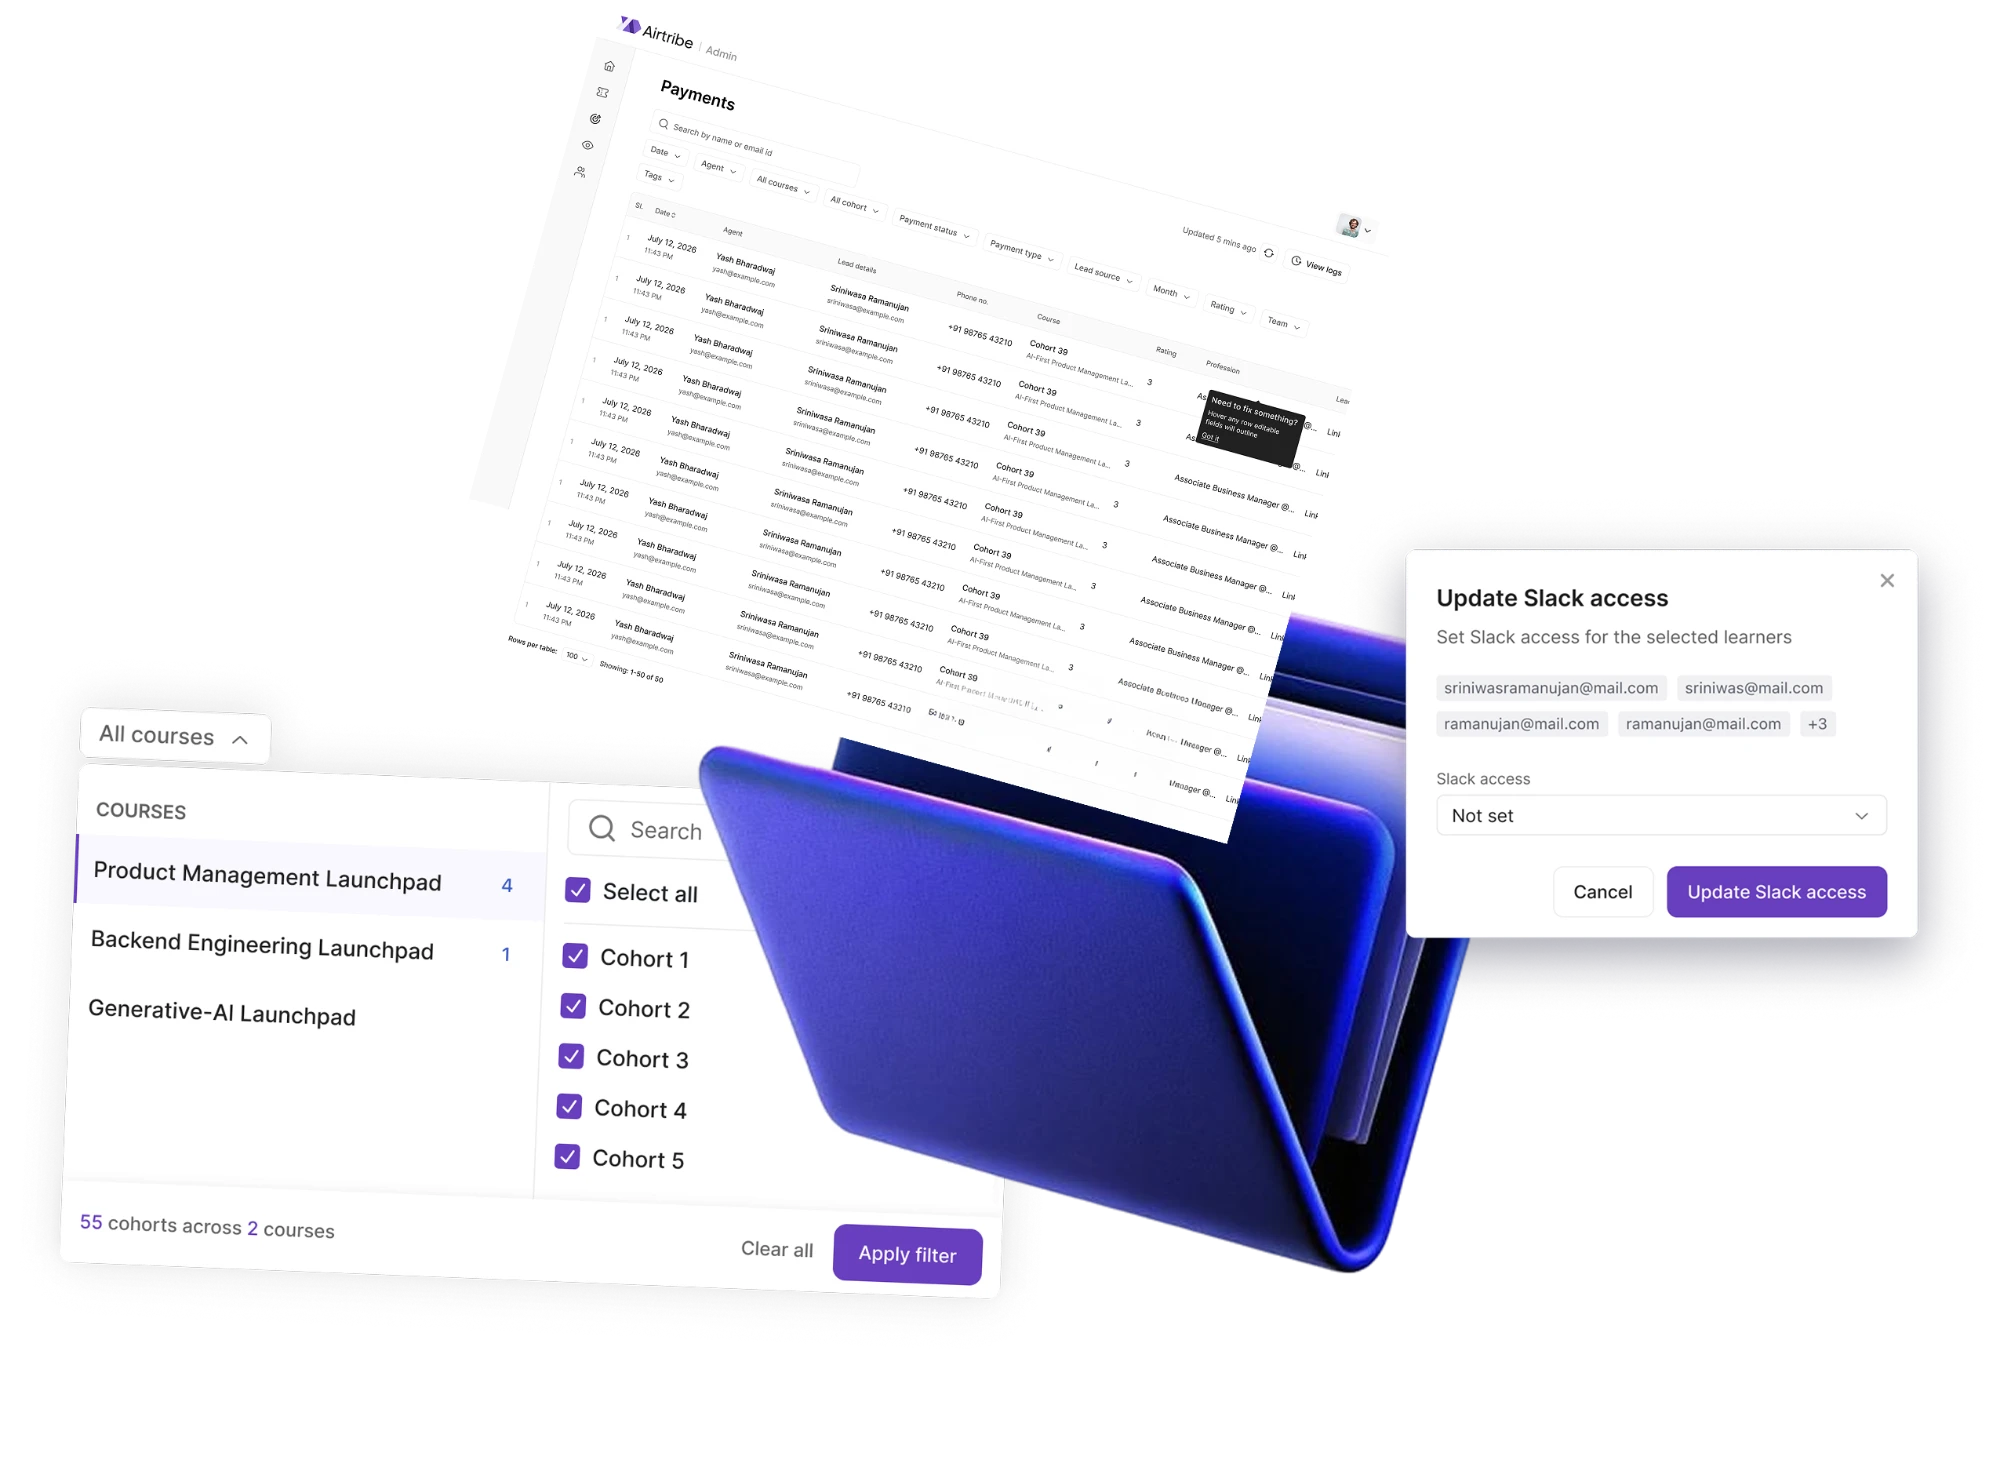
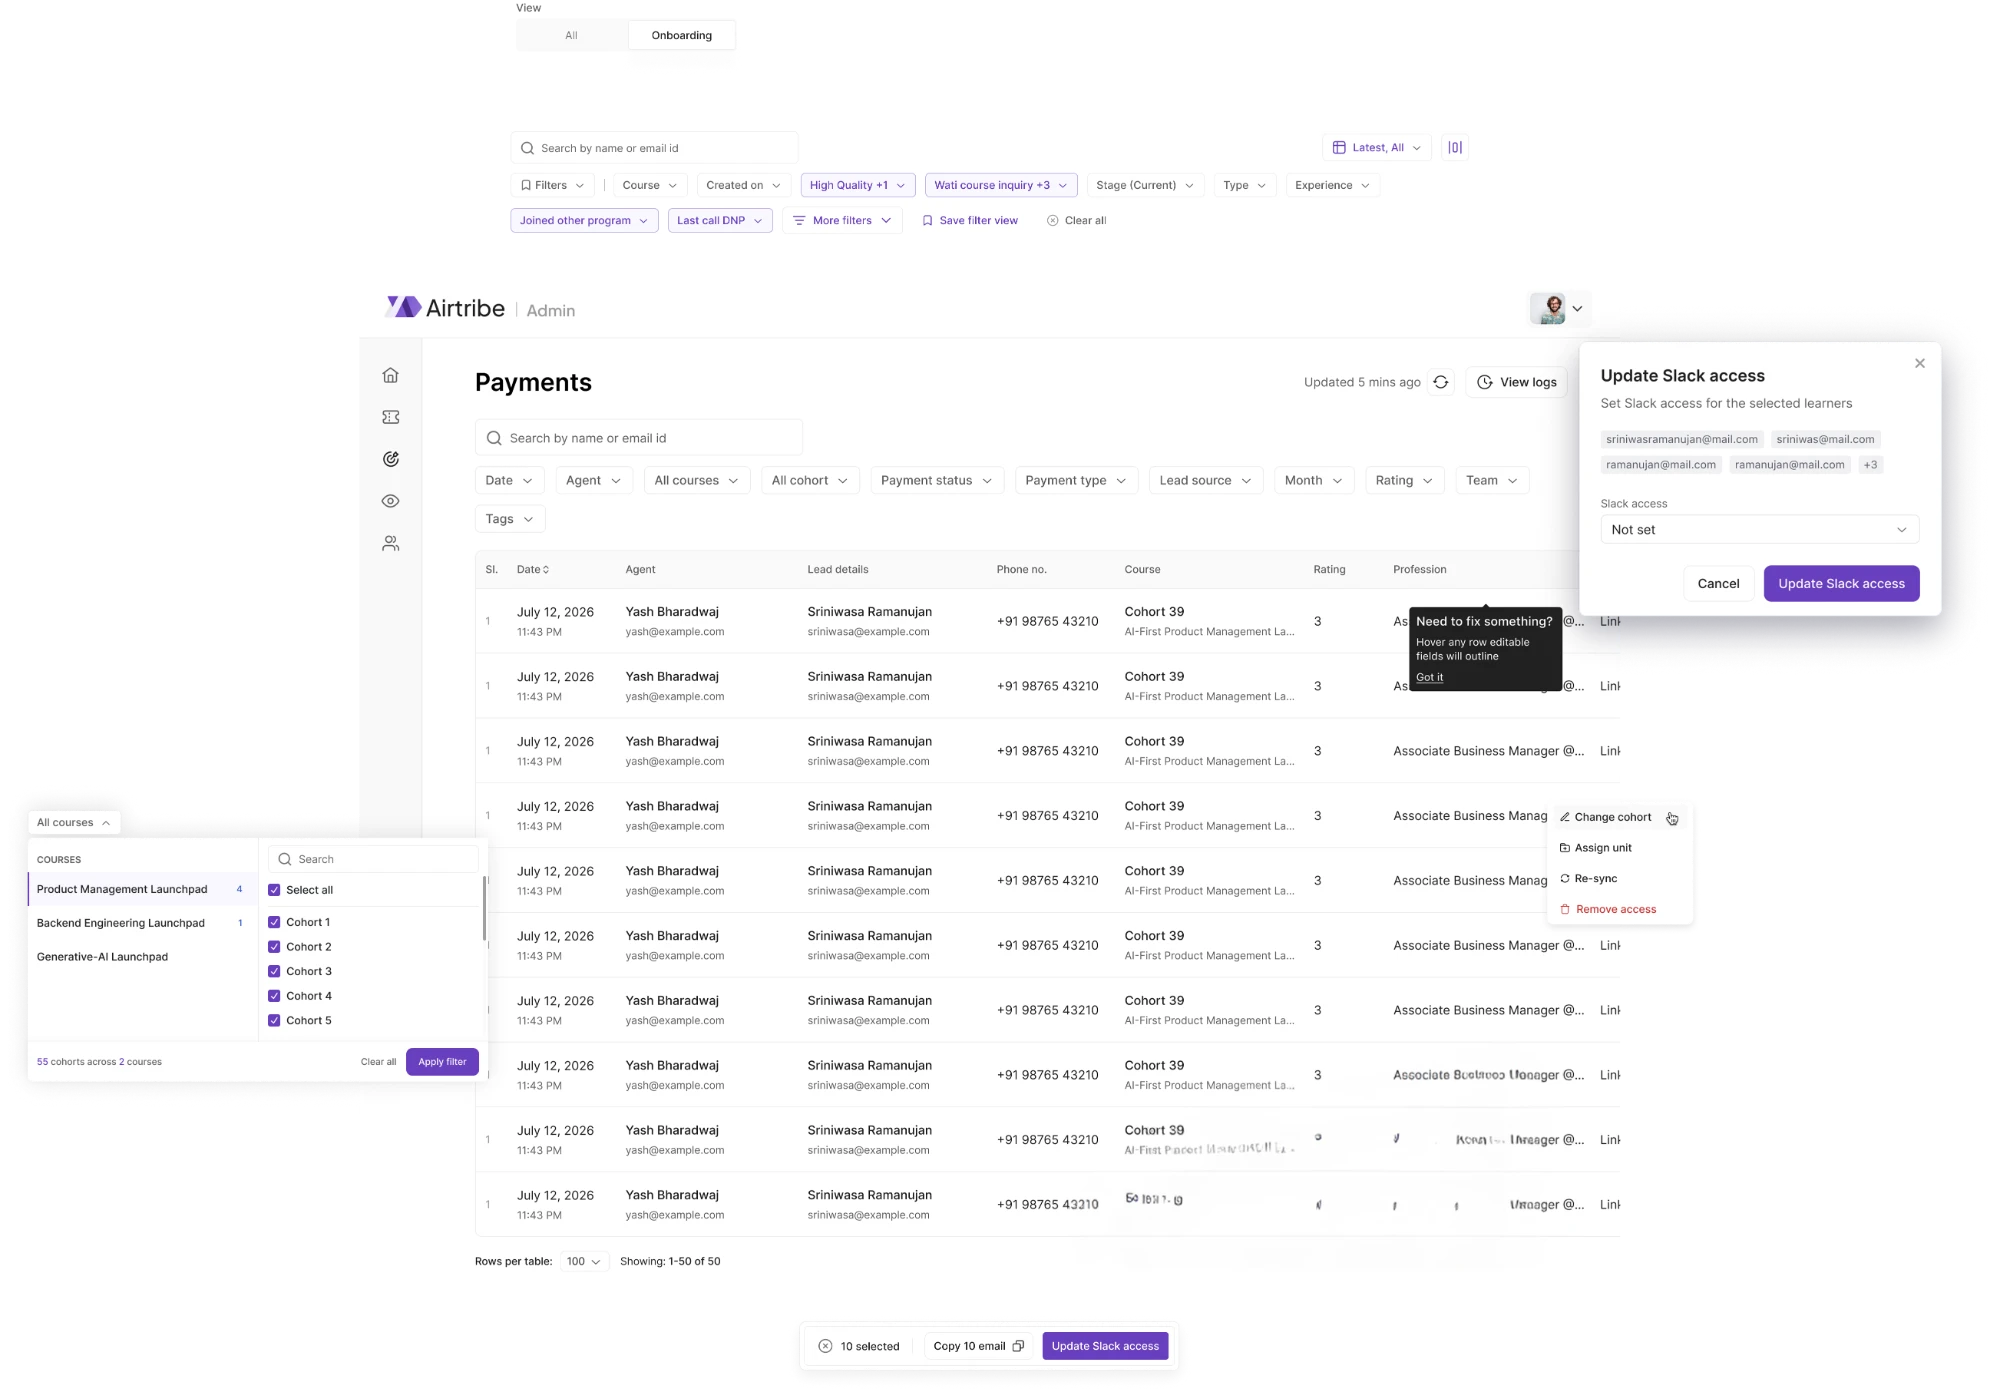
Vision: the fuller composition as the hero
More of the product in one frame than the previous composition carried:
the saved view and its filter rows above the record, the cohort filter,
the bulk slack-access modal, a row's action menu and the selection bar
the bulk actions hang off. Same synthetic cast, so nothing in the frame
is a real learner.

diff --git a/src/data/caseStudies.ts b/src/data/caseStudies.ts
@@ -486,11 +486,13 @@ export const caseStudies: Record<string, CaseStudy> = {
         "the whole company's payments ran through a google sheet. moving them into airtribe's internal sales and operations product, in three phases, without the sheet ever going dark.",
       media: {
         /*
-         * Three of vision's surfaces composed over a render on a transparent
-         * ground: the payments record, the cohort filter, and the bulk
-         * slack-access modal. All of it runs on the synthetic cast, the leads
-         * are famous mathematicians, the addresses are example.com and the
-         * phone numbers are 9876543210, so nothing here is a real learner.
+         * Vision's surfaces composed on a transparent ground: the saved view
+         * and its filter rows floating above, the payments record itself, the
+         * cohort filter open across three courses, the bulk slack-access
+         * modal, a row's action menu, and the selection bar the bulk actions
+         * hang off. It runs on the synthetic cast, the leads are famous
+         * mathematicians, the addresses are example.com and the phone numbers
+         * are 9876543210, so nothing here is a real learner.
          *
          * The plain payments capture it replaces is still in the page, in the
          * decision that argues for the view control. This fold is the product
@@ -502,7 +504,7 @@ export const caseStudies: Record<string, CaseStudy> = {
          */
         type: "image",
         src: "/case/vision/hero.webp",
-        alt: "three vision surfaces composed over a blue render: the payments record with its filter rows, the cohort filter open across three courses, and a modal setting slack access for several learners at once",
+        alt: "vision's payments record with its surfaces laid around it: the view switcher and filter rows above, the cohort filter open across three courses, a modal setting slack access for several learners at once, a row's action menu offering change cohort, assign unit, re-sync and remove access, and a selection bar reading ten selected",
       },
       mediaFit: "contain",
       mediaFrame: false,
